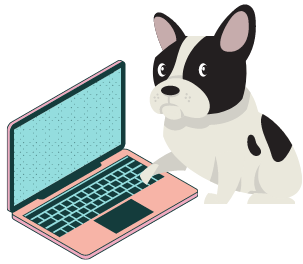
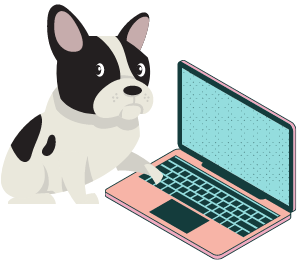
flipped skills image

diff --git a/public/css/simple-line-icons.css b/public/css/simple-line-icons.css
@@ -792,7 +792,7 @@
 div#maddie.text-center.text-md-right img{
 position: absolute;
 margin-left:-1.5rem;
-margin-top:-6rem;
+margin-top:-3rem;
 width:15rem;
 height:auto
 }
